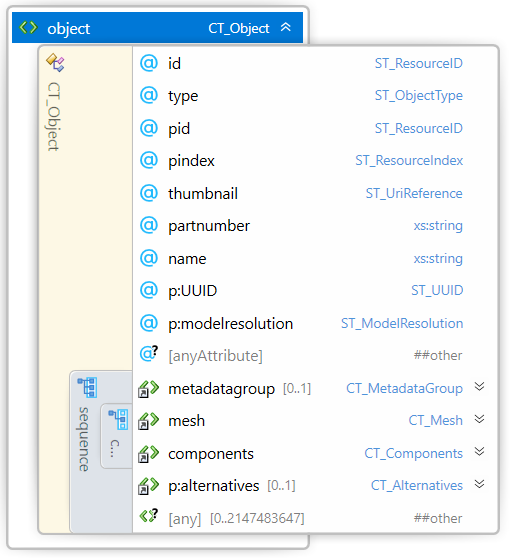
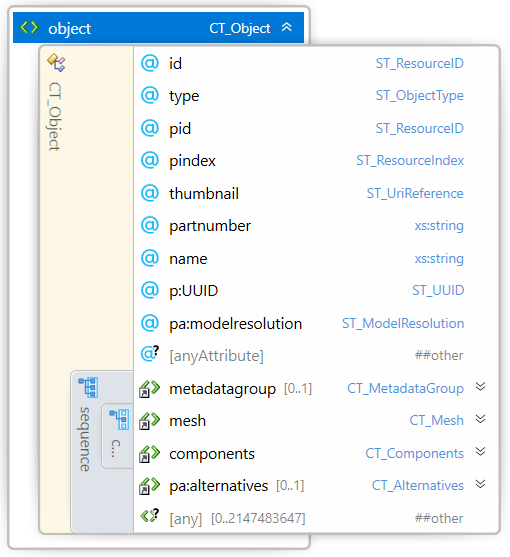
Alternatives with own namespace

diff --git a/3MF Production Extension.md b/3MF Production Extension.md
@@ -62,7 +62,7 @@ This extension MUST be used only with Core specification 1.x.
 
 See [the 3MF Core Specification conventions](https://github.com/3MFConsortium/spec_core/blob/master/3MF%20Core%20Specification.md#document-conventions).
 
-In this extension specification, as an example, the prefix "p" maps to the xml-namespace "http://schemas.microsoft.com/3dmanufacturing/production/2015/06". See Appendix [D.1 Namespaces](#d1-namespaces).
+In this extension specification, as an example, the prefix "p" maps to the xml-namespace "http://schemas.microsoft.com/3dmanufacturing/production/2015/06", as defined in 1.x, and the prefix "pa" maps to the xml namespace "http://schemas.microsoft.com/3dmanufacturing/production/alternatives/2021/04". See Appendix [D.1 Namespaces](#d1-namespaces).
 
 ## Language Notes
 
@@ -88,7 +88,7 @@ In order to allow for the use of 3MF in high production printing environments, s
 
 A consumer supporting the production extension MUST be able to consume non-extended core 3MFs, even if this is not as efficient. As the production extension is just a reorganization of data, a consumer MAY convert a generic core 3MF into a "production extended 3MF" before internally processing the data.
 
-In order to avoid data loss while parsing, a 3MF package which uses referenced objects MUST enlist the production extension as "required extension", as defined in the core specification.
+In order to avoid data loss while parsing, a 3MF package which uses referenced objects MUST enlist the production extension(s) as "required extension", as defined in the core specification.
 
 # Chapter 2. Model Relationships
 
@@ -280,7 +280,9 @@ These two limitations ensure there is only a single level of "depth" to multi-fi
 
 See [the 3MF Core Specification glossary](https://github.com/3MFConsortium/spec_core/blob/master/3MF%20Core%20Specification.md#appendix-a-glossary).
 
-## Appendix B. 3MF Production Extension Schema
+## Appendix B. 3MF XSD Schema
+
+### B.1. Production Schema
 
 ```xml
 <?xml version="1.0" encoding="UTF-8"?>
@@ -294,37 +296,73 @@ See [the 3MF Core Specification glossary](https://github.com/3MFConsortium/spec_
 	<!-- Complex Types -->
 
 	<xs:complexType name="CT_Item">
-		<xs:attribute name="objectid" type="ST_ResourceID" use="required"/>
 		<xs:attribute name="path" type="ST_Path"/>
 		<xs:attribute name="UUID" type="ST_UUID" use="required"/>
 		<xs:anyAttribute namespace="##other" processContents="lax"/>
 	</xs:complexType>
 
 	<xs:complexType name="CT_Component">
-		<xs:attribute name="objectid" type="ST_ResourceID" use="required"/>
 		<xs:attribute name="path" type="ST_Path"/>
-		<xs:attribute name="uuid" type="ST_UUID" use="required"/>
+		<xs:attribute name="UUID" type="ST_UUID" use="required"/>
 		<xs:anyAttribute namespace="##other" processContents="lax"/>
 	</xs:complexType>
 
+    <xs:complexType name="CT_Object">
+        <xs:attribute name="id" type="ST_ResourceID" use="required"/>
+        <xs:attribute name="UUID" type="ST_UUID" use="required"/>
+        <xs:anyAttribute namespace="##other" processContents="lax"/>
+    </xs:complexType>
+	
+	<xs:complexType name="CT_Build">
+		<xs:attribute name="UUID" type="ST_UUID" use="required"/>
+		<xs:anyAttribute namespace="##other" processContents="lax"/>
+	</xs:complexType>
+
+	<!-- Simple Types -->
+
+	<xs:simpleType name="ST_ResourceID">
+		<xs:restriction base="xs:positiveInteger">
+			<xs:maxExclusive value="2147483648"/>
+		</xs:restriction>
+	</xs:simpleType>
+	
+	<xs:simpleType name="ST_Path">
+		<xs:restriction base="xs:string"> </xs:restriction>
+	</xs:simpleType>
+	
+	<xs:simpleType name="ST_UUID">
+		<xs:restriction base="xs:string">
+			<xs:pattern value="[a-f0-9]{8}-[a-f0-9]{4}-[a-f0-9]{4}-[a-f0-9]{4}-[a-f0-9]{12}"/>
+		</xs:restriction>
+	</xs:simpleType>
+	
+	<!-- Elements -->
+	<xs:element name="item" type="CT_Item"/>
+	<xs:element name="component" type="CT_Component"/>
+	<xs:element name="object" type="CT_Object"/>
+	<xs:element name="build" type="CT_Build"/>
+	
+</xs:schema>
+```
+
+### B.2. Production Alternatives Schema
+
+```xml
+<?xml version="1.0" encoding="UTF-8"?>
+<xs:schema xmlns="http://schemas.microsoft.com/3dmanufacturing/production/alternatives/2021/04"
+	xmlns:xs="http://www.w3.org/2001/XMLSchema" xmlns:xml="http://www.w3.org/XML/1998/namespace"
+	targetNamespace="http://schemas.microsoft.com/3dmanufacturing/production/alternatives/2021/04"
+	elementFormDefault="unqualified" attributeFormDefault="unqualified" blockDefault="#all">
+	<xs:import namespace="http://www.w3.org/XML/1998/namespace"
+		schemaLocation="http://www.w3.org/2001/xml.xsd"/>
+
+	<!-- Complex Types -->
+
 	<xs:complexType name="CT_Object">
 		<xs:sequence>
-			<xs:element ref="metadatagroup" minOccurs="0" maxOccurs="1"/>
-			<xs:choice>
-				<xs:element ref="mesh"/>
-				<xs:element ref="components"/>
-			</xs:choice>
 			<xs:element ref="alternatives" minOccurs="0" maxOccurs="1"/>
 			<xs:any namespace="##other" processContents="lax" minOccurs="0" maxOccurs="2147483647"/>
 		</xs:sequence>
-		<xs:attribute name="id" type="ST_ResourceID" use="required"/>
-		<xs:attribute name="type" type="ST_ObjectType" default="model"/>
-		<xs:attribute name="pid" type="ST_ResourceID"/>
-		<xs:attribute name="pindex" type="ST_ResourceIndex"/>
-		<xs:attribute name="thumbnail" type="ST_UriReference"/>
-		<xs:attribute name="partnumber" type="xs:string"/>
-		<xs:attribute name="name" type="xs:string"/>
-		<xs:attribute name="UUID" type="ST_UUID" use="required"/>
 		<xs:attribute name="modelresolution" type="ST_ModelResolution" default="fullres"/>
 		<xs:anyAttribute namespace="##other" processContents="lax"/>
 	</xs:complexType>
@@ -350,14 +388,11 @@ See [the 3MF Core Specification glossary](https://github.com/3MFConsortium/spec_
 			<xs:maxExclusive value="2147483648"/>
 		</xs:restriction>
 	</xs:simpleType>
+	
 	<xs:simpleType name="ST_Path">
 		<xs:restriction base="xs:string"> </xs:restriction>
 	</xs:simpleType>
-	<xs:simpleType name="ST_UUID">
-		<xs:restriction base="xs:string">
-			<xs:pattern value="[a-f0-9]{8}-[a-f0-9]{4}-[a-f0-9]{4}-[a-f0-9]{4}-[a-f0-9]{12}"/>
-		</xs:restriction>
-	</xs:simpleType>
+	
 	<xs:simpleType name="ST_ModelResolution">
 		<xs:restriction base="xs:string">
 			<xs:enumeration value="fullres"/>
@@ -367,9 +402,6 @@ See [the 3MF Core Specification glossary](https://github.com/3MFConsortium/spec_
 	</xs:simpleType>
 	
 	<!-- Elements -->
-	<xs:element name="metadatagroup" type="CT_MetadataGroup"/>
-	<xs:element name="item" type="CT_Item"/>
-	<xs:element name="component" type="CT_Component"/>
 	<xs:element name="object" type="CT_Object"/>
 	<xs:element name="alternatives" type="CT_Alternatives"/>
 	<xs:element name="alternative" type="CT_Alternative"/>
@@ -421,6 +453,55 @@ See [the 3MF Core Specification glossary](https://github.com/3MFConsortium/spec_
 ```
 ![Simple Production Example with UUID](images/box.png)
 
+### C.2. Alternatives Production Sample
+
+Same example as in C2 but with a low resolution default model an alternative representation at full resolution.
+
+```xml
+<?xml version="1.0" encoding="utf-8"?>
+<model xmlns="http://schemas.microsoft.com/3dmanufacturing/core/2015/02" unit="millimeter" xml:lang="en-US" xmlns:p="http://schemas.microsoft.com/3dmanufacturing/production/2015/06"
+xmlns:pa="http://schemas.microsoft.com/3dmanufacturing/production/alternatives/2021/04">
+   	<metadata name="Copyright">Copyright (c) 2021 3MF Consortium. All rights reserved.</metadata>
+	<resources>
+		<object id="1" name="MyModel" type="model" pa:modelresolution="lowres"
+		thumbnail="/Thumbnails/MyModel.png" p:UUID="1c5385ee-9399-47c4-88dd-22b61d3d3598" >
+			<mesh>
+				<vertices>
+					<vertex x="35.00000" y="33.00000" z="16.92000" />
+					<vertex x="45.00000" y="33.00000" z="16.92000" />
+					<vertex x="45.00000" y="53.00000" z="16.92000" />
+					<vertex x="35.00000" y="53.00000" z="16.92000" />
+					<vertex x="35.00000" y="33.00000" z="46.92000" />
+					<vertex x="45.00000" y="33.00000" z="46.92000" />
+					<vertex x="45.00000" y="53.00000" z="46.92000" />
+					<vertex x="35.00000" y="53.00000" z="46.92000" />
+				</vertices>
+				<triangles>
+					<triangle v1="3" v2="2" v3="1" />
+					<triangle v1="1" v2="0" v3="3" />
+					<triangle v1="4" v2="5" v3="6" />
+					<triangle v1="6" v2="7" v3="4" />
+					<triangle v1="0" v2="1" v3="5" />
+					<triangle v1="5" v2="4" v3="0" />
+					<triangle v1="1" v2="2" v3="6" />
+					<triangle v1="6" v2="5" v3="1" />
+					<triangle v1="2" v2="3" v3="7" />
+					<triangle v1="7" v2="6" v3="2" />
+					<triangle v1="3" v2="0" v3="4" />
+					<triangle v1="4" v2="7" v3="3" />
+				</triangles>
+			</mesh>
+	  		<pa:alternatives>
+				<pa:alternative objectid="11" path="MyModel.model" modelresolution="fullres"/>
+	  		</pa:alternatives>
+		</object>
+	</resources>
+	<build p:UUID="98d328dc-6378-4f4b-880f-8c6e0ed980e2">
+		<item objectid="1" p:UUID="9b344c24-5605-4d74-9d44-9e515d9520f7" />
+	</build>
+</model>
+```
+
 See more examples in [3MF Production Specification examples](https://github.com/3MFConsortium/3mf-samples/tree/master/examples/production)
 
 ## Appendix D. Standard Namespaces and Content Types
@@ -428,6 +509,8 @@ See more examples in [3MF Production Specification examples](https://github.com/
 ### D.1 Namespaces
 
 Production http://schemas.microsoft.com/3dmanufacturing/production/2015/06
+
+Alternatives http://schemas.microsoft.com/3dmanufacturing/production/alternatives/2021/04
 
 # References
 
